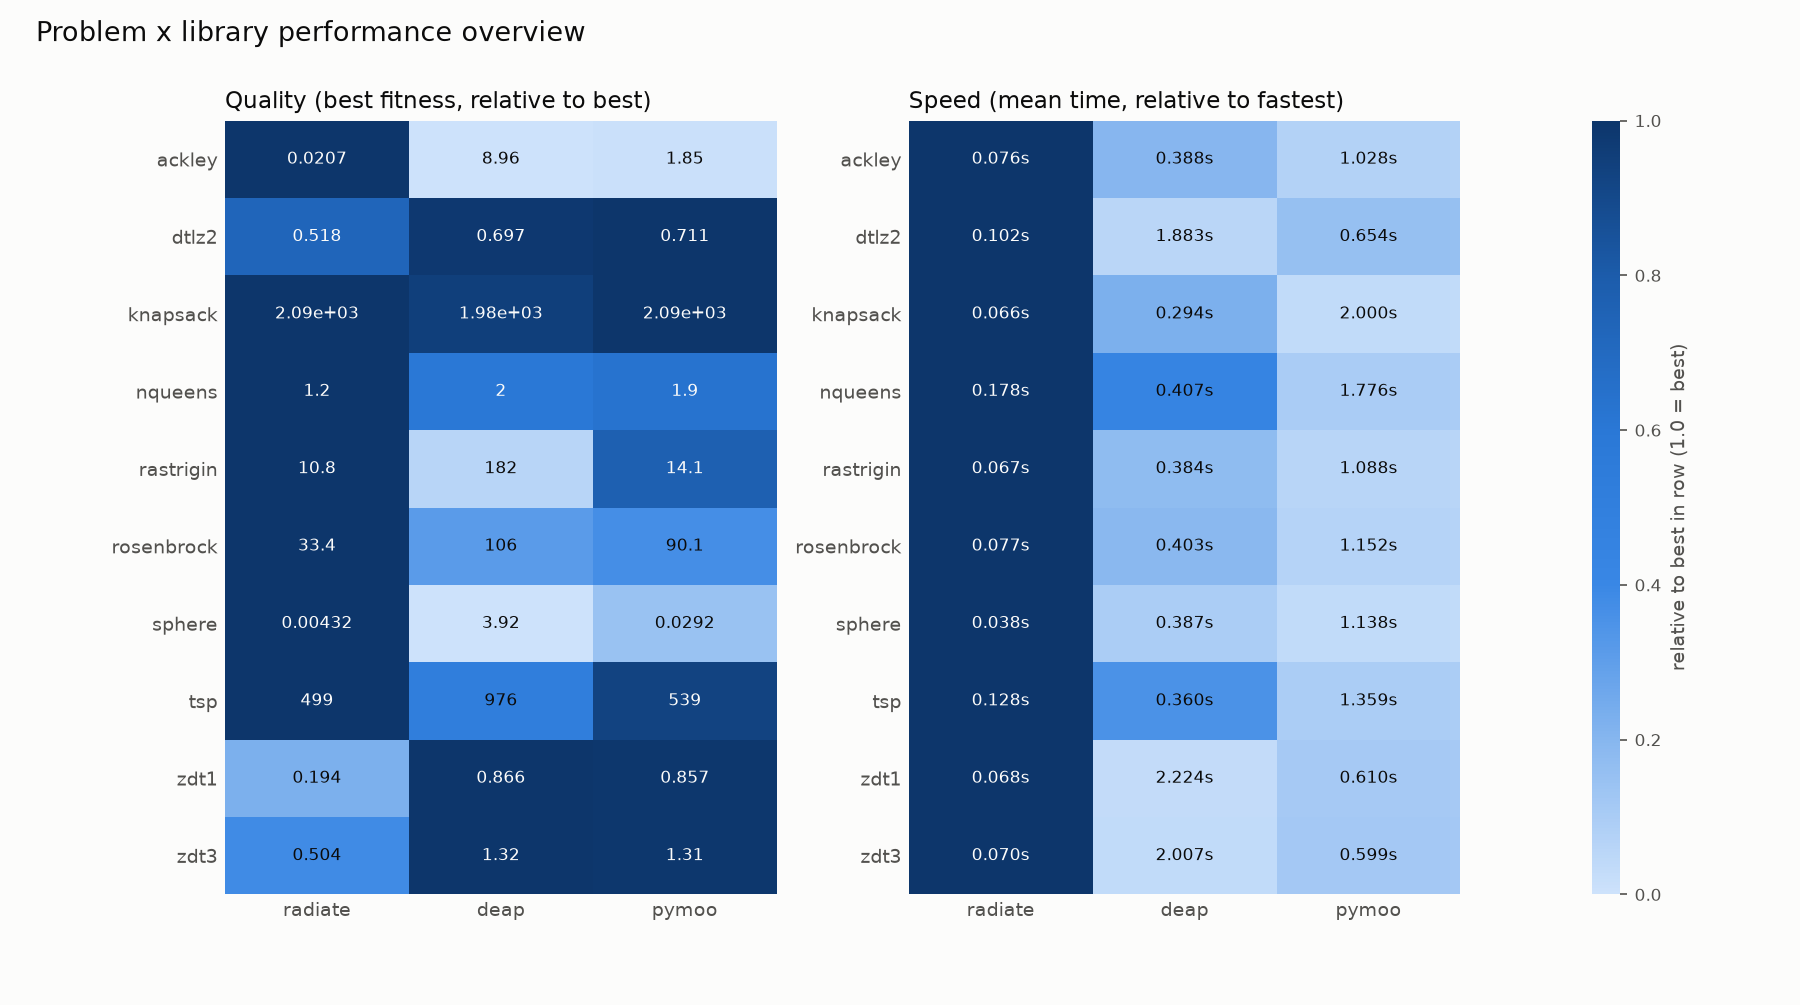
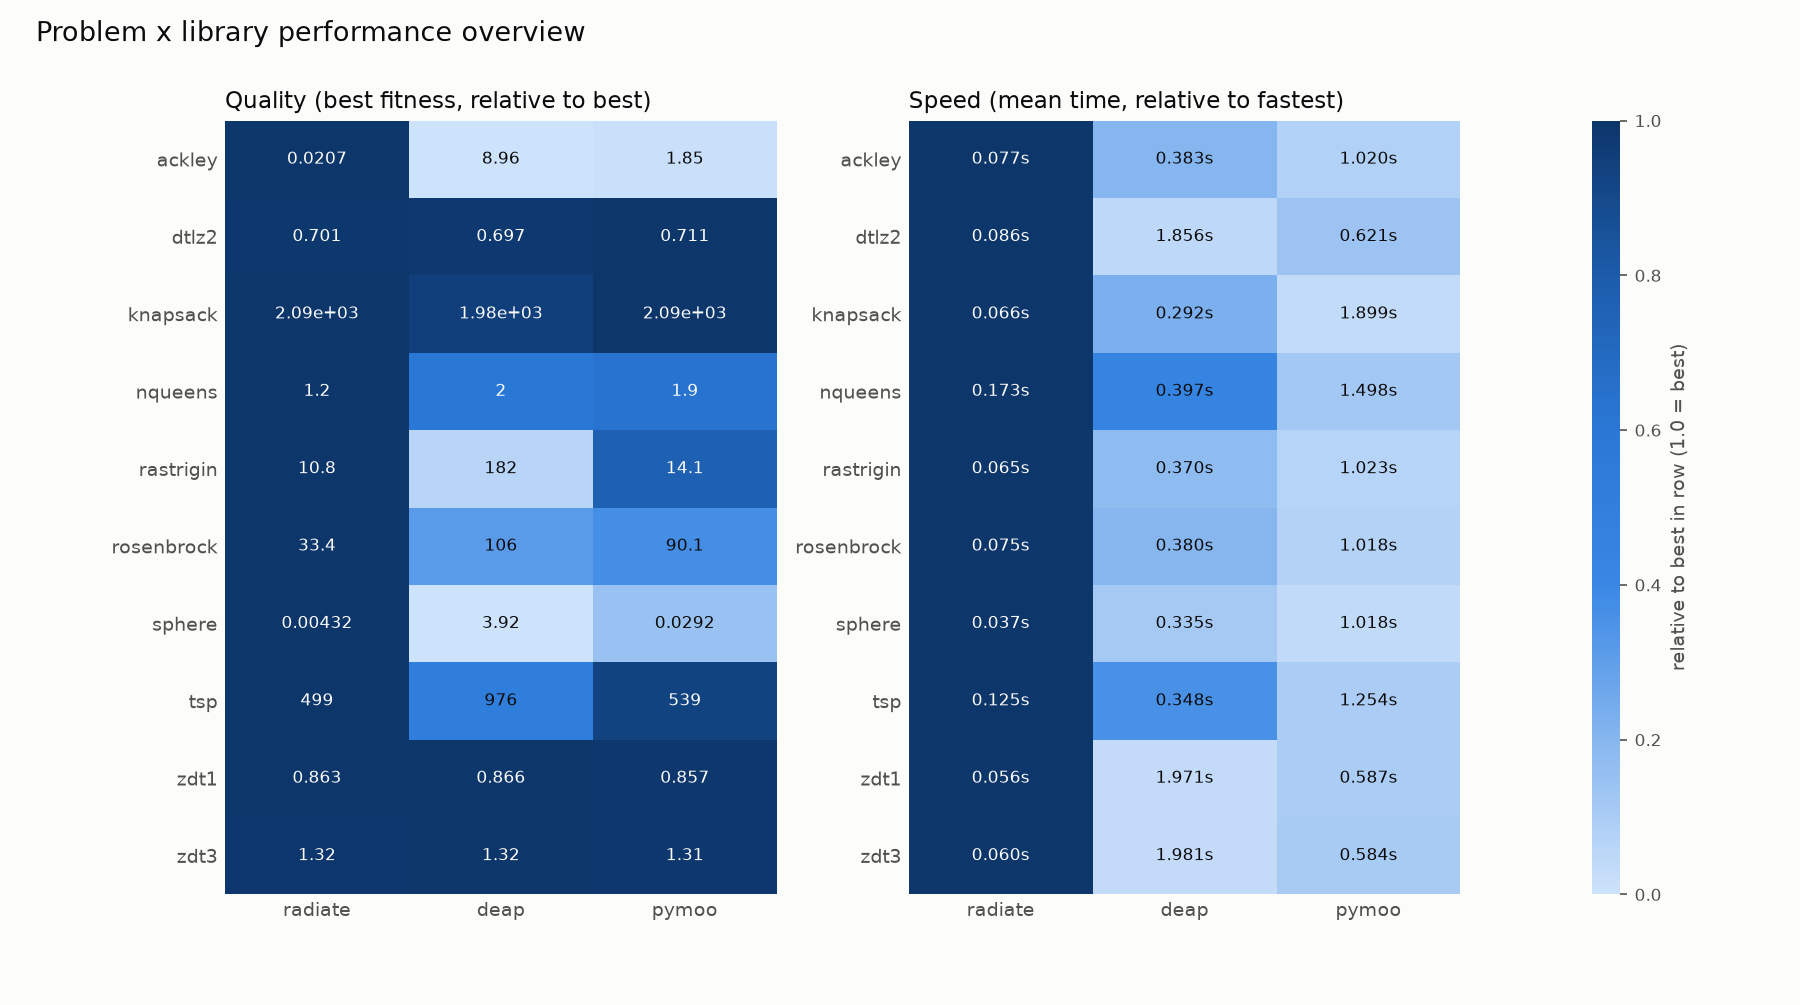
updating benchs

diff --git a/radiate_benchmarks/adapters/radiate_adapter.py b/radiate_benchmarks/adapters/radiate_adapter.py
@@ -170,10 +170,13 @@ def run_mo(problem: MOProblem, config: Config, seed: int) -> BenchmarkResult:
             front_range=(config.population_size, config.population_size + 50),
         )
         .size(config.population_size)
-        .select(rd.Select.tournament(k=3), rd.Select.nsga2())
+        # NSGA-II: crowded-comparison tournament for parents, rank + crowding for survivors.
+        # SBX / polynomial mutation with eta=20 and a per-gene mutation rate, matching the
+        # DEAP (cxSimulatedBinaryBounded / mutPolynomialBounded indpb) and pymoo adapters.
+        .select(rd.Select.tournament_nsga2(), rd.Select.nsga2(), frac=0.5)
         .alter(
-            rd.Cross.sbx(config.crossover_rate, 2.0),
-            rd.Mutate.uniform(config.mutation_rate),
+            rd.Cross.sbx(config.crossover_rate, 20.0),
+            rd.Mutate.polynomial(config.mutation_rate, 20.0),
         )
         .limit(rd.Limit.generations(config.generations))
     )

diff --git a/results/summary.md b/results/summary.md
@@ -1,32 +1,32 @@
 | problem    | library   |   best_mean |   best_std |   time_mean_s |   time_std_s |   n_trials |
 |:-----------|:----------|------------:|-----------:|--------------:|-------------:|-----------:|
-| ackley     | radiate   |      0.0207 |     0.0106 |        0.0762 |       0.0003 |         10 |
-| ackley     | deap      |      8.9594 |     0.4361 |        0.3885 |       0.0073 |         10 |
-| ackley     | pymoo     |      1.8515 |     0.3751 |        1.0281 |       0.0106 |         10 |
-| dtlz2      | radiate   |      0.5176 |     0.0196 |        0.1021 |       0.0017 |         10 |
-| dtlz2      | deap      |      0.6974 |     0.0061 |        1.8832 |       0.0107 |         10 |
-| dtlz2      | pymoo     |      0.7111 |     0.0056 |        0.6538 |       0.0121 |         10 |
-| knapsack   | radiate   |   2090.0000 |     0.0000 |        0.0661 |       0.0005 |         10 |
-| knapsack   | deap      |   1982.4000 |    35.0498 |        0.2940 |       0.0010 |         10 |
-| knapsack   | pymoo     |   2090.0000 |     0.0000 |        2.0003 |       0.0814 |         10 |
-| nqueens    | radiate   |      1.2000 |     0.6325 |        0.1782 |       0.0024 |         10 |
-| nqueens    | deap      |      2.0000 |     0.4714 |        0.4073 |       0.0105 |         10 |
-| nqueens    | pymoo     |      1.9000 |     0.8756 |        1.7756 |       0.2400 |         10 |
-| rastrigin  | radiate   |     10.8435 |     4.8314 |        0.0672 |       0.0006 |         10 |
-| rastrigin  | deap      |    182.1082 |    14.1792 |        0.3837 |       0.0122 |         10 |
-| rastrigin  | pymoo     |     14.1199 |     3.7540 |        1.0880 |       0.0326 |         10 |
-| rosenbrock | radiate   |     33.4129 |    14.9997 |        0.0769 |       0.0006 |         10 |
-| rosenbrock | deap      |    106.0411 |     4.8883 |        0.4031 |       0.0104 |         10 |
-| rosenbrock | pymoo     |     90.1068 |    23.4850 |        1.1524 |       0.1756 |         10 |
-| sphere     | radiate   |      0.0043 |     0.0019 |        0.0377 |       0.0009 |         10 |
-| sphere     | deap      |      3.9225 |     0.3664 |        0.3865 |       0.0588 |         10 |
-| sphere     | pymoo     |      0.0292 |     0.0061 |        1.1375 |       0.0688 |         10 |
-| tsp        | radiate   |    499.1356 |    12.1659 |        0.1276 |       0.0028 |         10 |
-| tsp        | deap      |    975.7242 |    21.3226 |        0.3601 |       0.0086 |         10 |
-| tsp        | pymoo     |    538.5293 |    54.1085 |        1.3585 |       0.0286 |         10 |
-| zdt1       | radiate   |      0.1938 |     0.0491 |        0.0675 |       0.0011 |         10 |
-| zdt1       | deap      |      0.8658 |     0.0006 |        2.2239 |       0.1992 |         10 |
-| zdt1       | pymoo     |      0.8568 |     0.0056 |        0.6099 |       0.0157 |         10 |
-| zdt3       | radiate   |      0.5037 |     0.0536 |        0.0700 |       0.0003 |         10 |
-| zdt3       | deap      |      1.3227 |     0.0010 |        2.0073 |       0.0048 |         10 |
-| zdt3       | pymoo     |      1.3079 |     0.0044 |        0.5992 |       0.0052 |         10 |
+| ackley     | radiate   |      0.0207 |     0.0106 |        0.0767 |       0.0003 |         10 |
+| ackley     | deap      |      8.9594 |     0.4361 |        0.3832 |       0.0009 |         10 |
+| ackley     | pymoo     |      1.8515 |     0.3751 |        1.0203 |       0.0049 |         10 |
+| dtlz2      | radiate   |      0.7012 |     0.0100 |        0.0858 |       0.0004 |         10 |
+| dtlz2      | deap      |      0.6974 |     0.0061 |        1.8562 |       0.0066 |         10 |
+| dtlz2      | pymoo     |      0.7111 |     0.0056 |        0.6213 |       0.0047 |         10 |
+| knapsack   | radiate   |   2090.0000 |     0.0000 |        0.0662 |       0.0005 |         10 |
+| knapsack   | deap      |   1982.4000 |    35.0498 |        0.2919 |       0.0009 |         10 |
+| knapsack   | pymoo     |   2090.0000 |     0.0000 |        1.8985 |       0.0154 |         10 |
+| nqueens    | radiate   |      1.2000 |     0.6325 |        0.1735 |       0.0021 |         10 |
+| nqueens    | deap      |      2.0000 |     0.4714 |        0.3972 |       0.0008 |         10 |
+| nqueens    | pymoo     |      1.9000 |     0.8756 |        1.4980 |       0.0067 |         10 |
+| rastrigin  | radiate   |     10.8435 |     4.8314 |        0.0654 |       0.0003 |         10 |
+| rastrigin  | deap      |    182.1082 |    14.1792 |        0.3695 |       0.0007 |         10 |
+| rastrigin  | pymoo     |     14.1199 |     3.7540 |        1.0233 |       0.0080 |         10 |
+| rosenbrock | radiate   |     33.4129 |    14.9997 |        0.0745 |       0.0003 |         10 |
+| rosenbrock | deap      |    106.0411 |     4.8883 |        0.3799 |       0.0009 |         10 |
+| rosenbrock | pymoo     |     90.1068 |    23.4850 |        1.0176 |       0.0070 |         10 |
+| sphere     | radiate   |      0.0043 |     0.0019 |        0.0374 |       0.0005 |         10 |
+| sphere     | deap      |      3.9225 |     0.3664 |        0.3347 |       0.0060 |         10 |
+| sphere     | pymoo     |      0.0292 |     0.0061 |        1.0179 |       0.0088 |         10 |
+| tsp        | radiate   |    499.1356 |    12.1659 |        0.1248 |       0.0007 |         10 |
+| tsp        | deap      |    975.7242 |    21.3226 |        0.3484 |       0.0008 |         10 |
+| tsp        | pymoo     |    538.5293 |    54.1085 |        1.2541 |       0.0354 |         10 |
+| zdt1       | radiate   |      0.8628 |     0.0010 |        0.0560 |       0.0003 |         10 |
+| zdt1       | deap      |      0.8658 |     0.0006 |        1.9708 |       0.0042 |         10 |
+| zdt1       | pymoo     |      0.8568 |     0.0056 |        0.5870 |       0.0049 |         10 |
+| zdt3       | radiate   |      1.3161 |     0.0019 |        0.0595 |       0.0002 |         10 |
+| zdt3       | deap      |      1.3227 |     0.0010 |        1.9806 |       0.0037 |         10 |
+| zdt3       | pymoo     |      1.3079 |     0.0044 |        0.5837 |       0.0033 |         10 |
